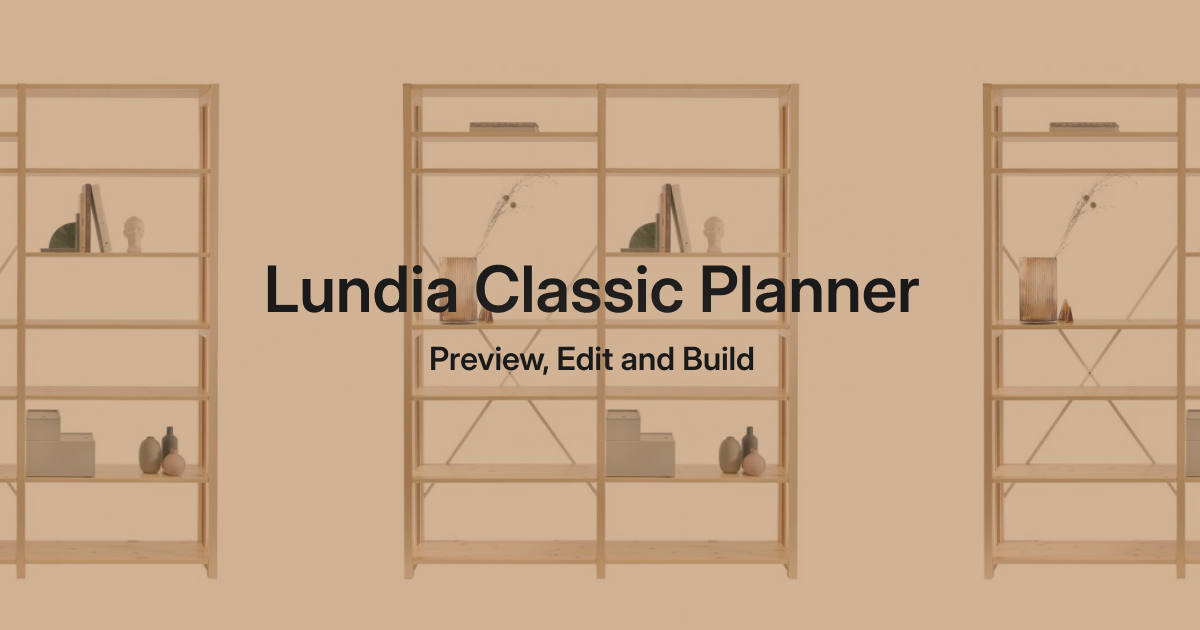
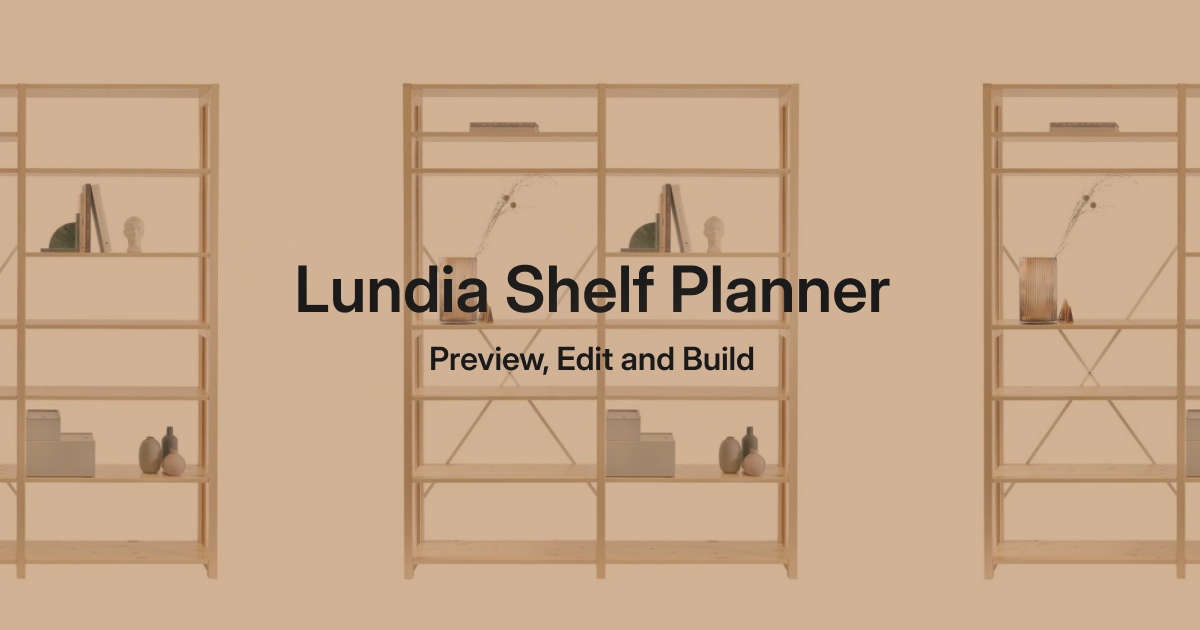
Rename Lundia Classic Planner -> Lundia Shelf Planner

Changed region(s): [[0.2158, 0.4222, 0.7708, 0.5127]]

diff --git a/index.html b/index.html
@@ -16,20 +16,20 @@
       href="/icon-light.svg"
     />
     <meta name="viewport" content="width=device-width, initial-scale=1.0" />
-    <title>Lundia Classic Planner</title>
+    <title>Lundia Shelf Planner</title>
     <link rel="preconnect" href="https://rsms.me/" />
     <link rel="stylesheet" href="https://rsms.me/inter/inter.css" />
-    <meta name="title" content="Lundia Classic Planner — Preview, Edit and Build" />
+    <meta name="title" content="Lundia Shelf Planner — Preview, Edit and Build" />
     <meta
       name="description"
-      content="Use Lundia Classic Planner to help you preview the perfect Lundia Classic bookcase layout before building it!"
+      content="Use Lundia Shelf Planner to help you preview the perfect Lundia Classic bookcase layout before building it!"
     />
     <meta property="og:type" content="website" />
     <meta property="og:url" content="https://lundia-planner.vercel.app" />
-    <meta property="og:title" content="Lundia Classic Planner — Preview, Edit and Build" />
+    <meta property="og:title" content="Lundia Shelf Planner — Preview, Edit and Build" />
     <meta
       property="og:description"
-      content="Use Lundia Classic Planner to help you preview the perfect Lundia Classic bookcase layout before building it!"
+      content="Use Lundia Shelf Planner to help you preview the perfect Lundia Classic bookcase layout before building it!"
     />
     <meta property="og:image" content="https://lundia-planner.vercel.app/shareimage.png" />
   </head>
